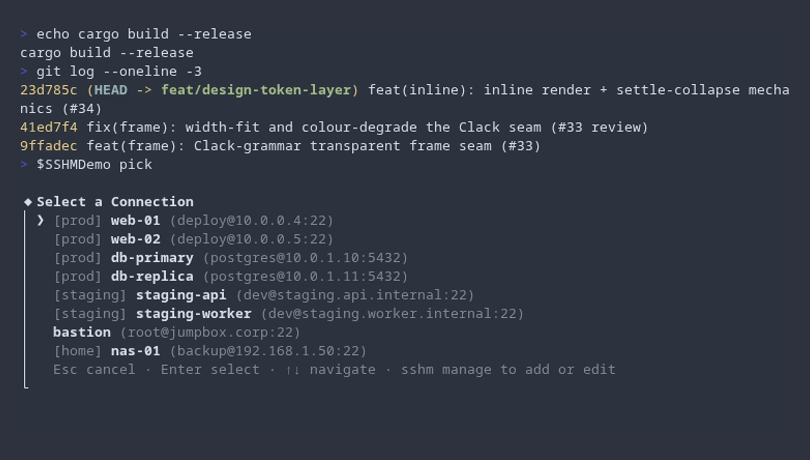
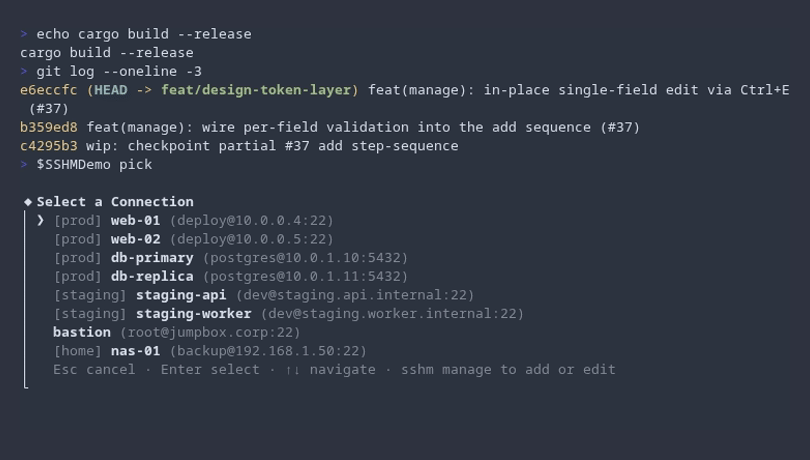
docs(design): rebuild demo tapes + capability matrix for the inline frame set (#40)
The demo tapes and vhs matrix were built for the deleted fullscreen TUI and
old opaque picker. Rebuild them for the one shared inline frame, render each
surface through the real render path (Frame::to_ansi from the design dump)
and capture frames in a real (headless chromium) terminal.

- demo/sshm-design.tape: review reel cats the new frame-*.ansi set —
  picker, empty/no-match states, manage, delete confirm + deleted +
  delete-failed, edit + edited + edit-refused + edit-failed, add +
  add-settled + add-refused, the error settle, and the pick rails at 60
  cols and under NO_COLOR.
- demo/design-matrix.tape: one PNG per SSHM_FRAME render, docs updated to
  the frame-* naming; demo/inline-manage.tape added to drive the live
  manage Ctrl+A add sequence and Ctrl+X delete confirm.
- demo/rendered/ rebuilt: the frame-* surface captures (incl mono/60-col/
  failed tiers) replace the stale fullscreen tui-*/old picker-*/gate-* PNGs,
  which are deleted as dead fullscreen remnants.
- CONTEXT.md "Inline Picker" no longer claims a fullscreen TUI runs on a
  bare `sshm` (stale since #35); inline_demo.rs doc comment updated since
  the three command runners now exist.
- scripts/design-matrix.sh doc updated to the new frame set.

Verification: design-matrix.sh passes in all four colour modes (8 tests
each); full suite 473 passed / 0 failed; fmt + clippy clean fanout; every
tape validates and the capture pipeline was exercised end-to-end.

Changed region(s): [[0.0, 0.1826, 0.8025, 0.3348], [0.6173, 0.1826, 0.9877, 0.213], [0.4938, 0.1826, 0.5556, 0.213]]

diff --git a/sshm/examples/inline_demo.rs b/sshm/examples/inline_demo.rs
@@ -1,9 +1,10 @@
 //! Visual harness for the #34 inline mechanics — not a product command.
 //!
-//! The three command runners are what will own `sshm` / `sshm pick` /
-//! `sshm manage` (#35), and the `--emit` axis that decides what Enter means.
-//! None of that exists yet, so this is how the frame gets looked at in a real
-//! terminal — which is the only way this repo accepts a UI change as verified.
+//! The three command runners own `sshm` / `sshm pick` / `sshm manage` through
+//! `run_inline` + the `--emit` axis (#35/#36/#37); this example drives the same
+//! frame directly over an `Ephemeral` store so the mechanics can be looked at
+//! in a real terminal without touching the user's connections.json — which is
+//! the only way this repo accepts a UI change as verified.
 //!
 //! ```text
 //! cargo run --example inline_demo -- [pick|manage] [initial query]

diff --git a/CONTEXT.md b/CONTEXT.md
@@ -9,7 +9,10 @@ A single SSH server the user can connect to — an alias, host, user, port, opti
 _Avoid_: entry, server, host (host is a field of a Connection, not the Connection itself)
 
 **Inline Picker**:
-The inline, filter-as-you-type selector that lists Connections below the cursor (not fullscreen) and emits the chosen one to the shell. Triggered from a shell widget, distinct from the fullscreen TUI that runs on a bare `sshm`.
+The inline, filter-as-you-type selector that lists Connections below the cursor
+(line, not fullscreen) and emits the chosen one to the shell. It is the one
+frame every command opens (#35): bare `sshm`, `sshm pick` and `sshm manage`
+all draw the same Clack grammar, differing only in what Enter means.
 _Avoid_: dropdown, popup, completion menu
 
 **Shell Widget**:
